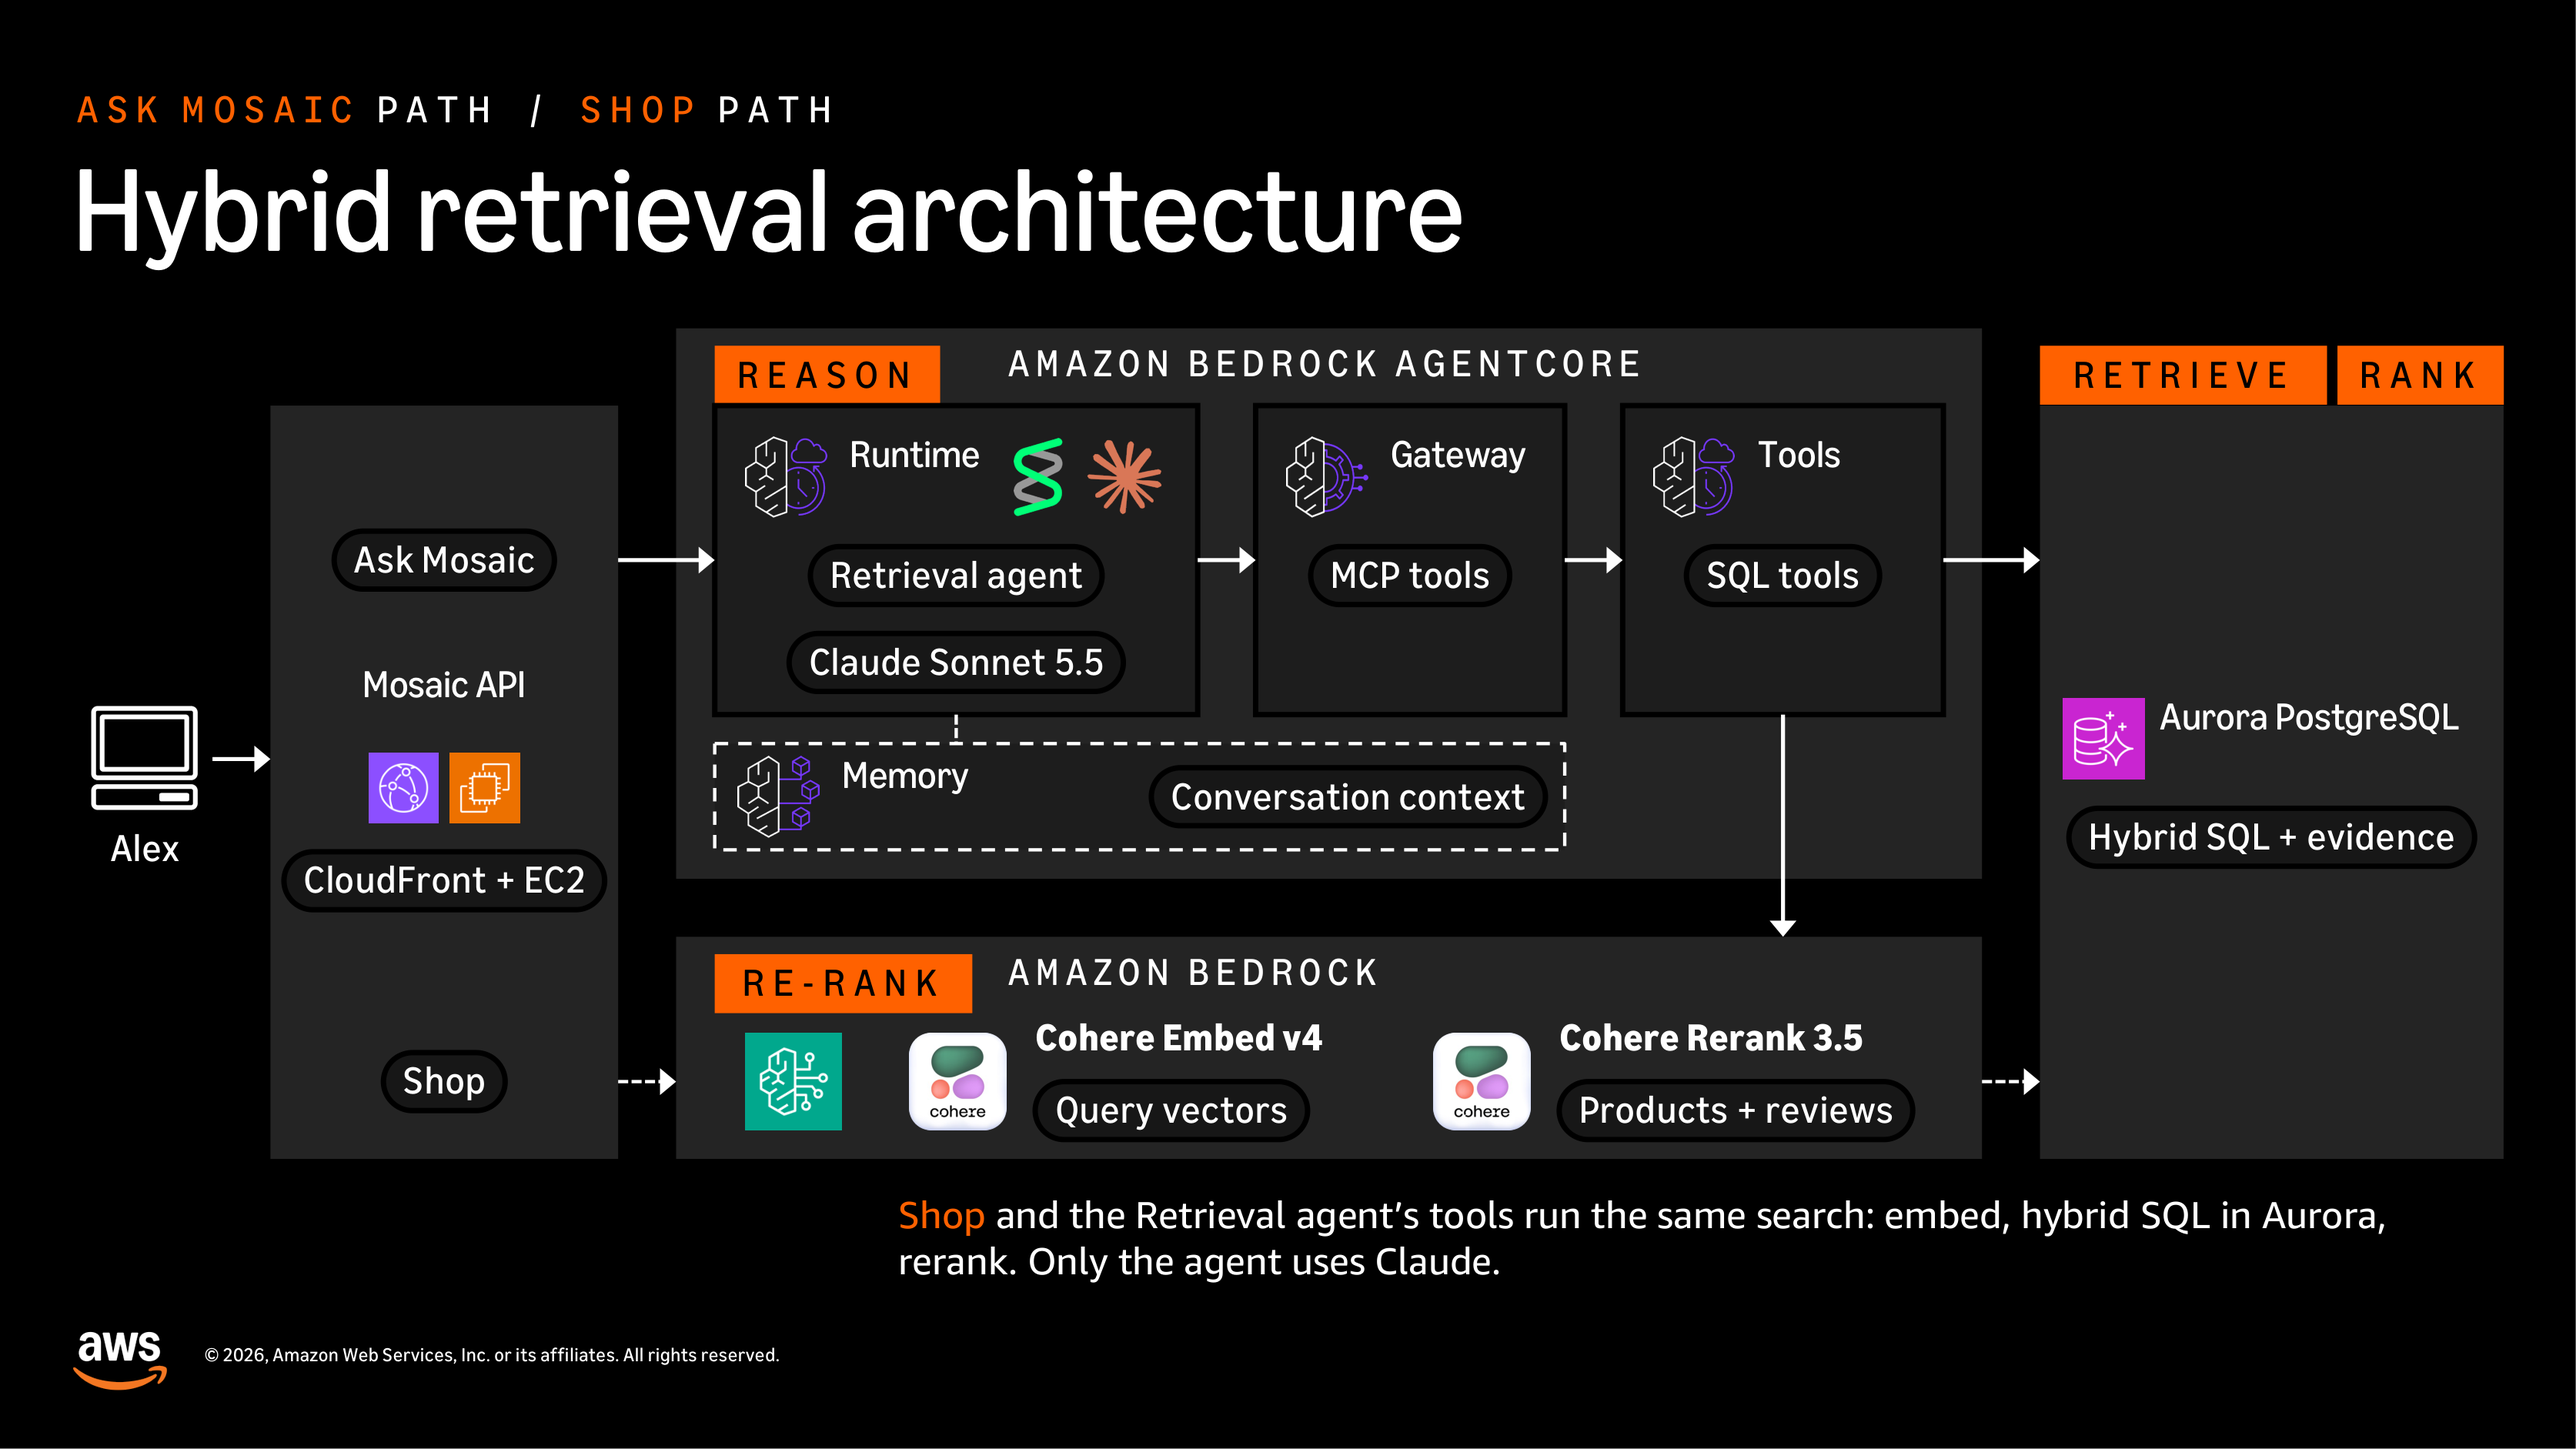
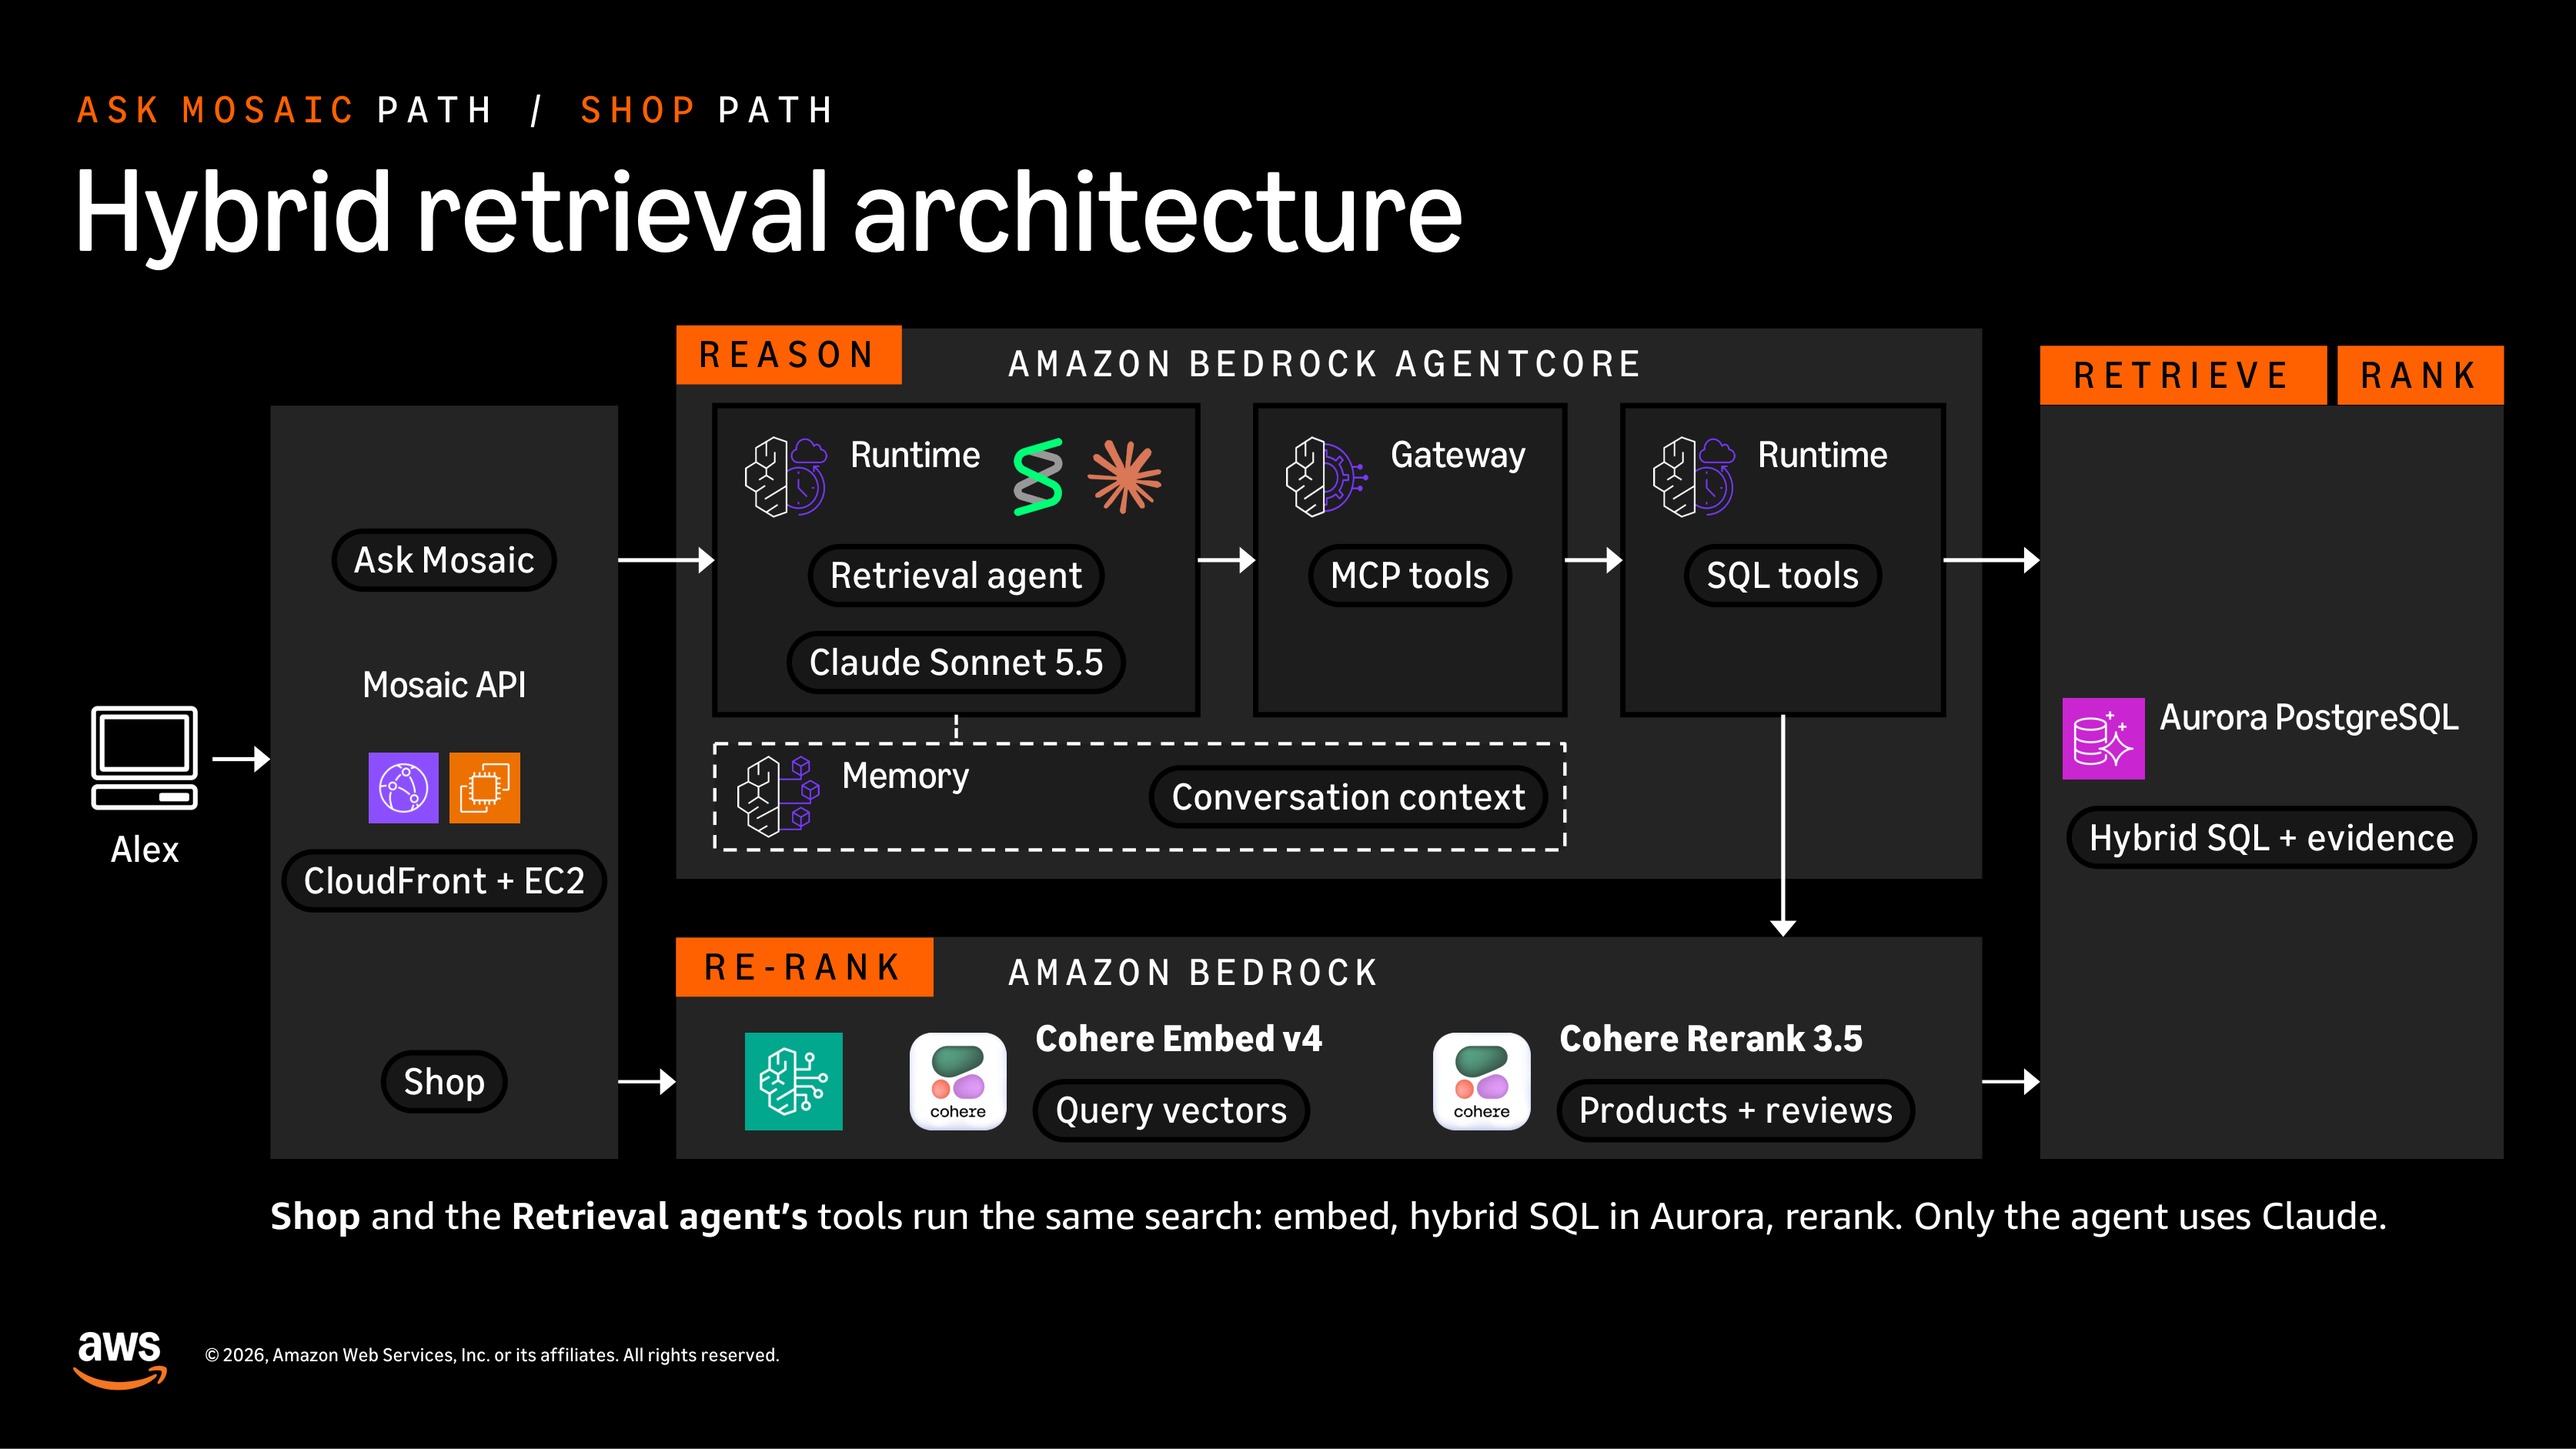
Show the deck's current architecture slide in the README
The image is slide 14 of the revised DAT410 deck: the SQL tools run on their
own AgentCore Runtime, and the caption says Shop and the Retrieval agent's
tools run the same search. The alt text names the second Runtime.

diff --git a/README.md b/README.md
@@ -69,7 +69,7 @@ rank fusion and building your own retrieval tool.
 
 ## Architecture
 
-![Hybrid retrieval architecture with an Ask Mosaic path and a Shop path. Alex uses the Mosaic API on CloudFront and EC2. On the Ask Mosaic path, the Retrieval agent runs on AgentCore Runtime with Strands and Claude Sonnet 5.5 and calls MCP tools through AgentCore Gateway; the SQL tools embed and rerank with Cohere models in Amazon Bedrock and query hybrid SQL and evidence in Aurora PostgreSQL. AgentCore Memory is optional. On the Shop path, the Mosaic API runs the same search without the agent: Cohere Embed v4 and Cohere Rerank 3.5 in Amazon Bedrock, then Aurora. Only the agent uses Claude.](docs/images/architecture.png)
+![Hybrid retrieval architecture with an Ask Mosaic path and a Shop path. Alex uses the Mosaic API on CloudFront and EC2. On the Ask Mosaic path, the Retrieval agent runs on AgentCore Runtime with Strands and Claude Sonnet 5.5 and calls MCP tools through AgentCore Gateway; the SQL tools, on a second AgentCore Runtime, embed and rerank with Cohere models in Amazon Bedrock and query hybrid SQL and evidence in Aurora PostgreSQL. AgentCore Memory is optional. On the Shop path, the Mosaic API runs the same search without the agent: Cohere Embed v4 and Cohere Rerank 3.5 in Amazon Bedrock, then Aurora. Only the agent uses Claude.](docs/images/architecture.png)
 
 | Component | Role |
 |---|---|
